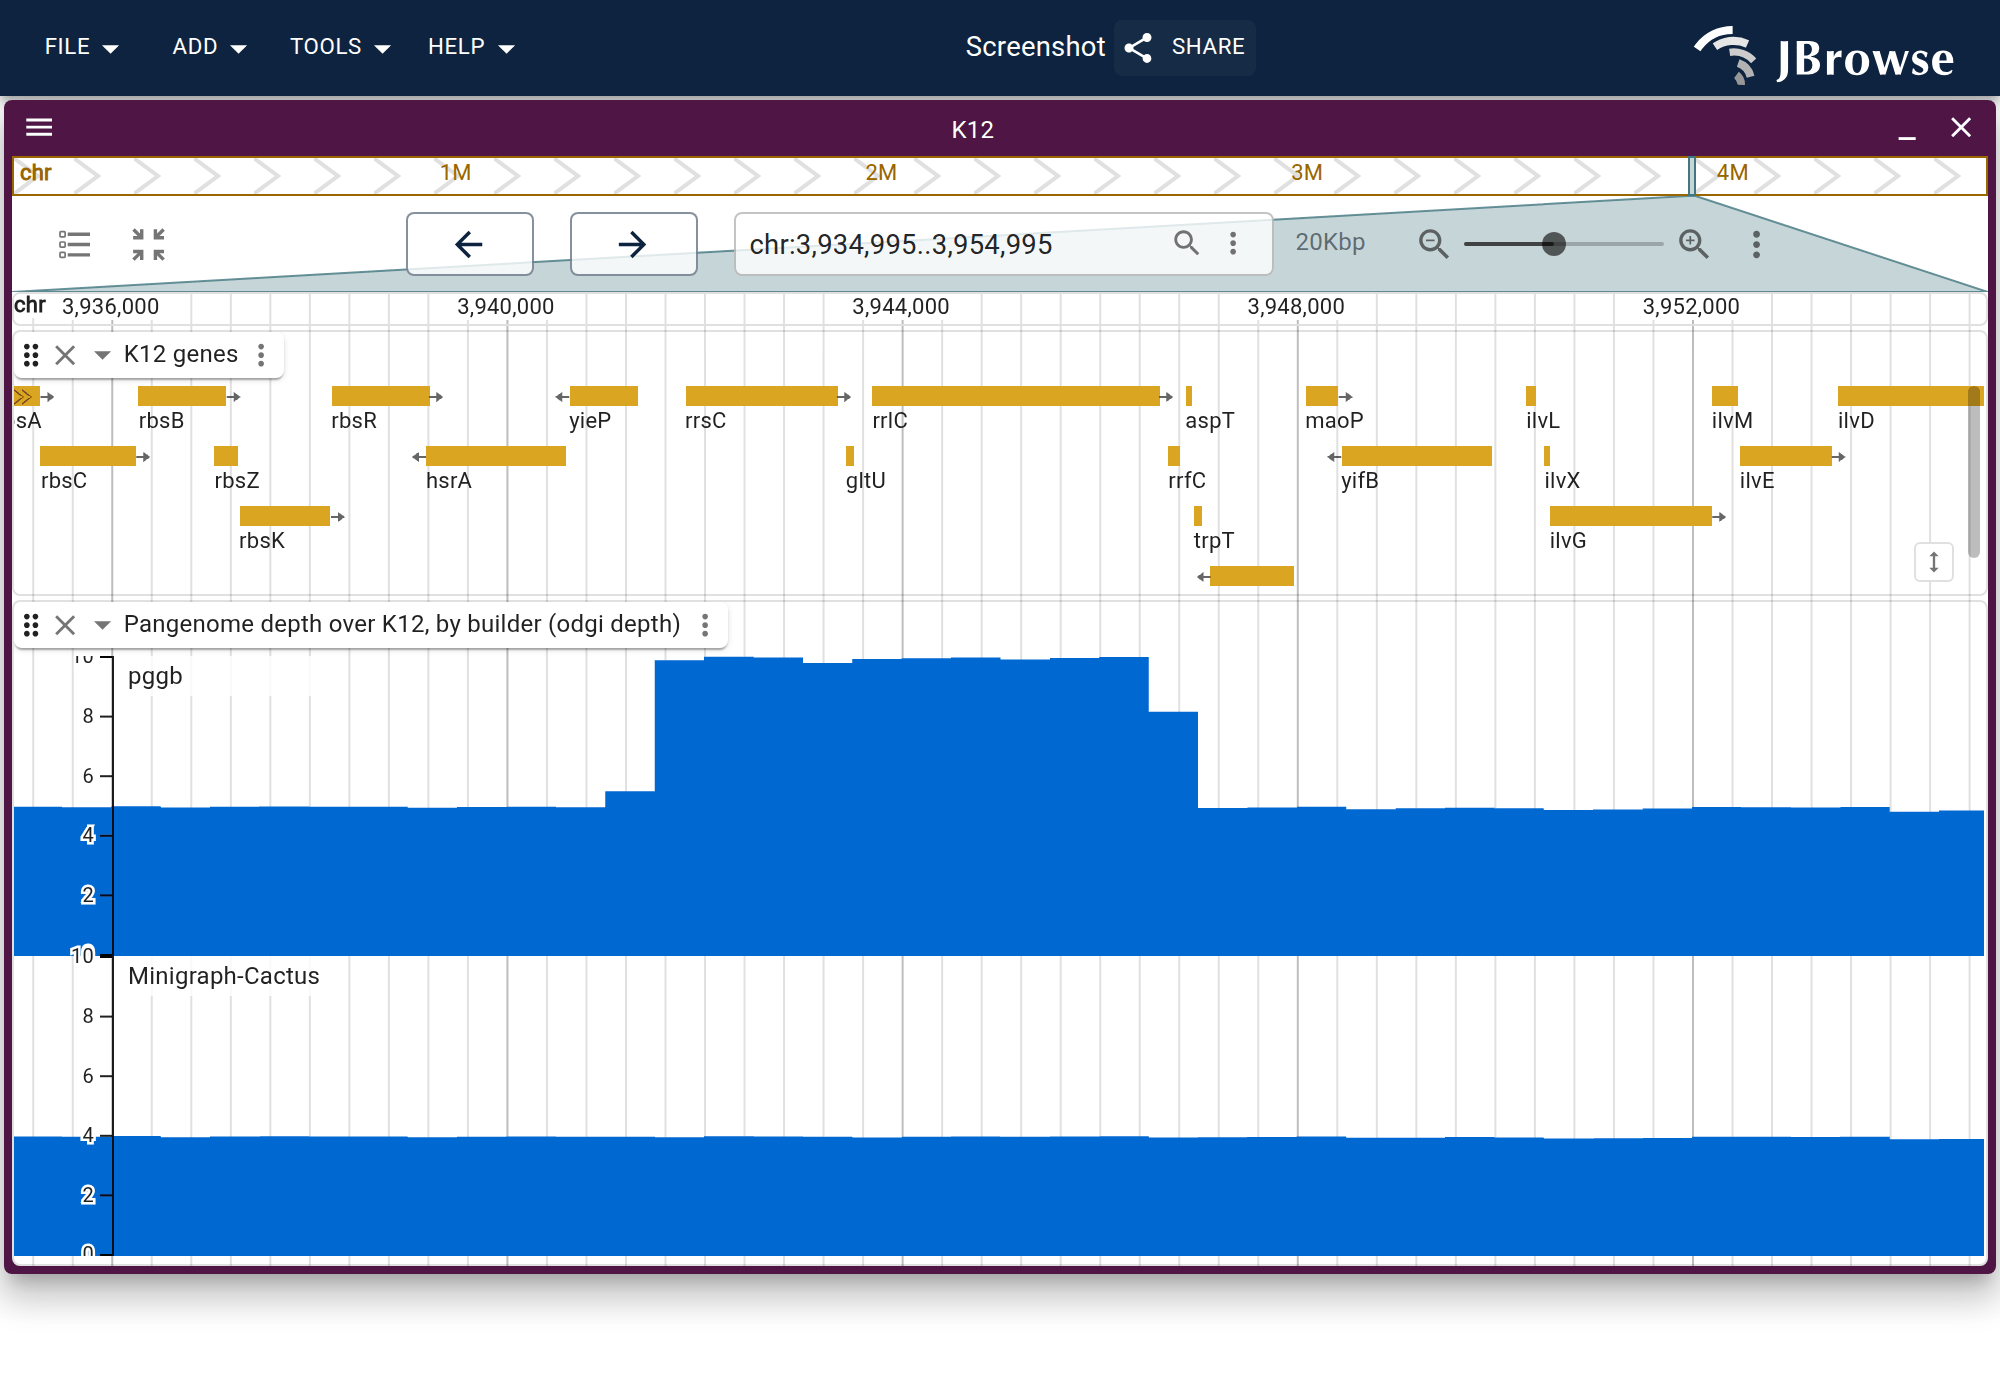
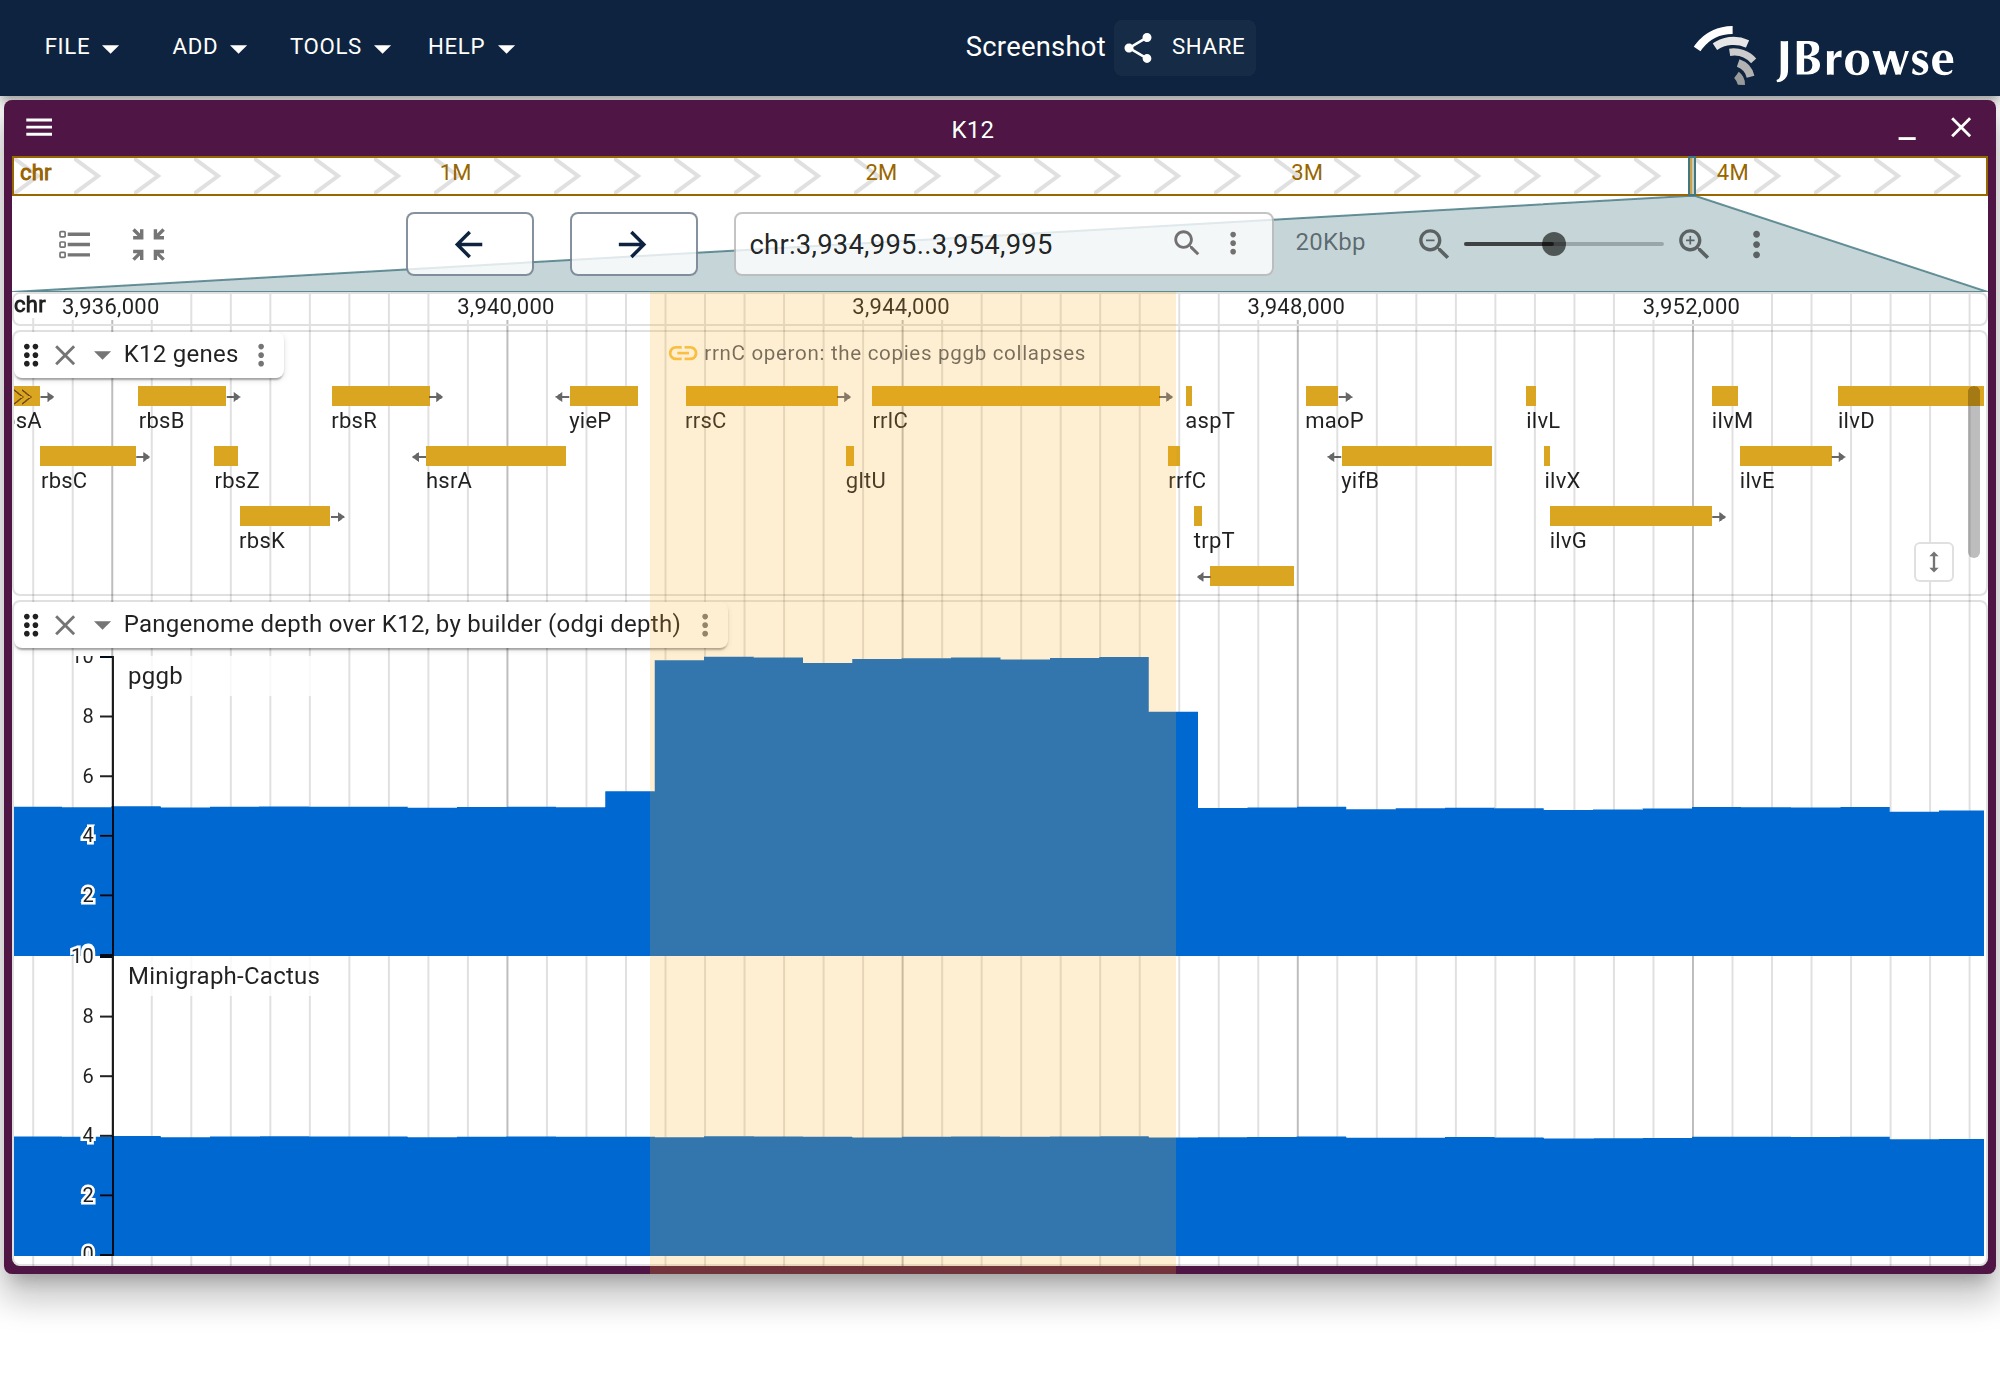
docs(pangenome): band the operon the two builders disagree over
The figure showed one row stepping up and the other not, and left the reader to
work out which interval that was and why (reviewer). The rrnC operon is a
labeled highlight band now, on the same span the pggb tutorial's untangle figure
uses, so the raised plateau and the flat row under it are visibly the same
interval. The caption carries the mechanism rather than only the observation:
depth counts path steps, so a repeat folded onto one run of nodes is walked once
per copy.

Claude-Session: https://claude.ai/code/session_01MyHV8buqv4ZRohv9DCCNE1

Changed region(s): [[0.31, 0.187, 0.589, 0.9348]]

diff --git a/website/scripts/specs/pangenome_cactus.ts b/website/scripts/specs/pangenome_cactus.ts
@@ -206,6 +206,22 @@ export const pangenomeCactusSpecs: ScreenshotSpec[] = [
           type: 'LinearGenomeView',
           assembly: 'K12',
           loc: 'chr:3,935,000-3,955,000',
+          // the operon named on the figure, not in the caption alone
+          // (reviewer: "unclear why pggb depth is higher, need reasoning in
+          // caption and even in-figure annotations"). Same span as the pggb
+          // tutorial's untangle figure, so the collapse is the same object in
+          // both. A band, not an overlay arrow: it is a genomic interval, and
+          // it lands on the two depth rows as well as on the genes.
+          highlight: [
+            {
+              refName: 'chr',
+              start: 3941447,
+              end: 3946786,
+              assemblyName: 'K12',
+              label: 'rrnC operon: the copies pggb collapses',
+            },
+          ],
+          showHighlightChips: true,
           tracks: [
             { trackId: 'K12_genes', type: 'LinearBasicDisplay' },
             {

diff --git a/website/docs/tutorials/pangenome_cactus.md b/website/docs/tutorials/pangenome_cactus.md
@@ -395,7 +395,7 @@ single frame. seqwish folds the rRNA copies together, so the pggb curve runs
 above the strain count there; the reference-first graph keeps them apart and its
 curve never exceeds the strain count anywhere on the chromosome.
 
-<Figure caption="odgi depth over the rrnC operon, the same command over the same K12 windows against each builder's graph, on one fixed axis. The pggb row steps up to twice the strain count across the operon the gene lane names (rrsC, rrlC, rrfC); the Minigraph-Cactus row does not move." src="/img/pangenome_cactus/builders.png" />
+<Figure caption="odgi depth over the banded rrnC operon, the same command over the same K12 windows against each builder's graph, on one fixed axis. Depth counts path steps, so where seqwish folds a strain's several rRNA copies onto one run of nodes, each copy walks that run and the pggb row steps up past the strain count. The reference-first graph keeps the copies apart, and its row does not move." src="/img/pangenome_cactus/builders.png" />
 
 So read the aggregate curve as relative rather than as an exact strain tally on
 a graph that collapses repeats. On this one it is a tally, and that is a
